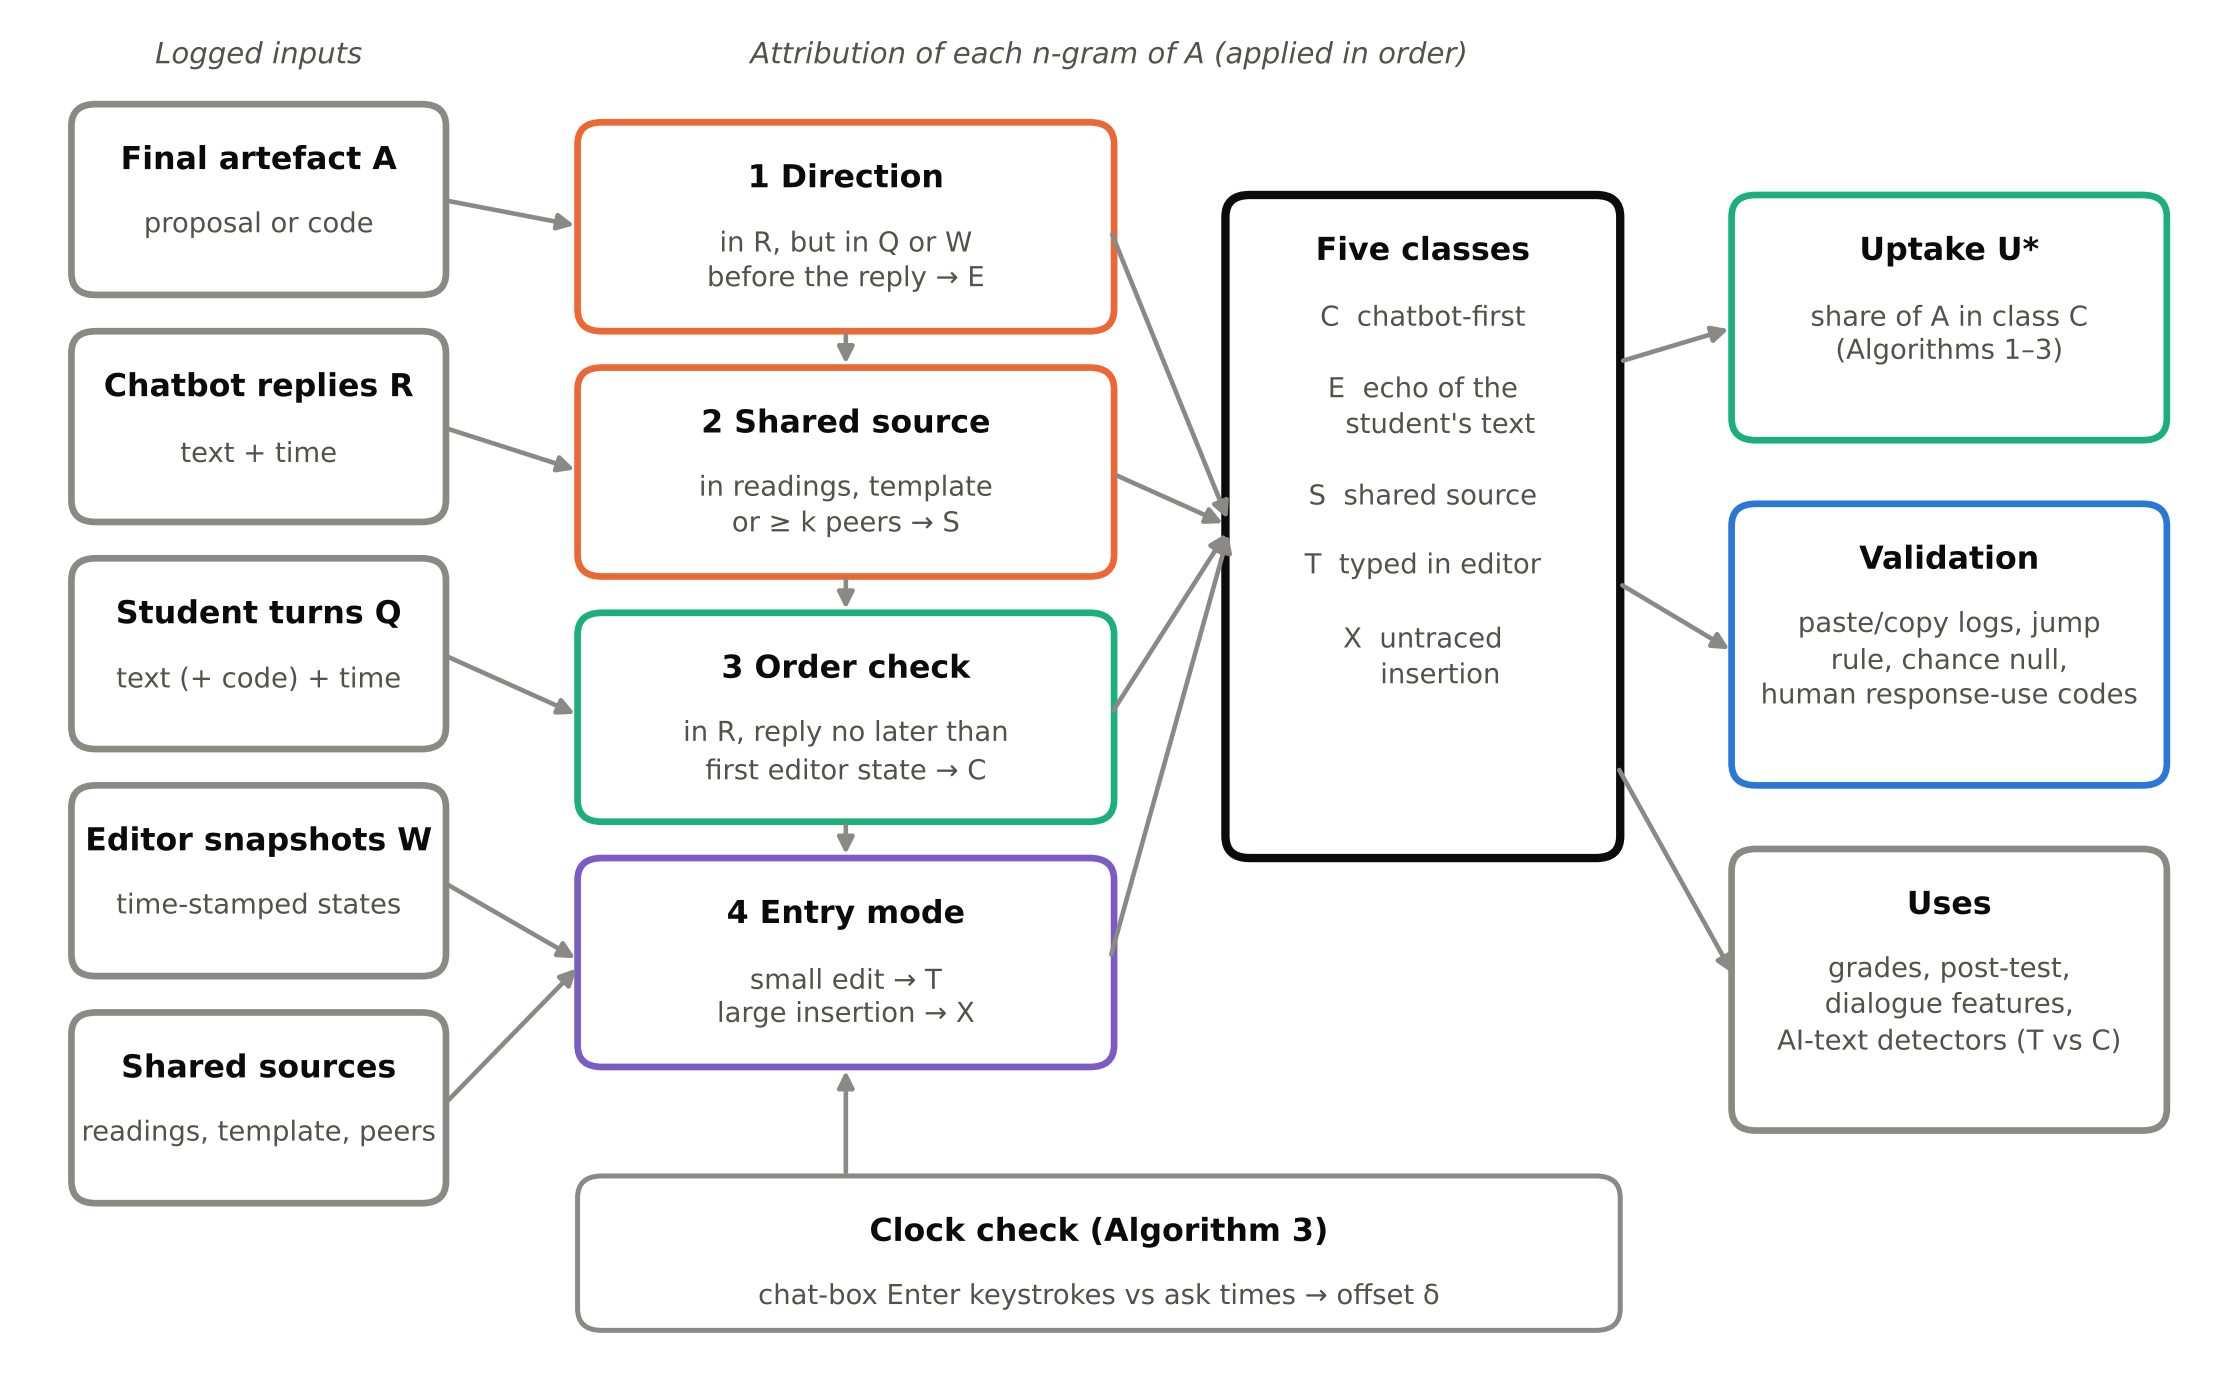
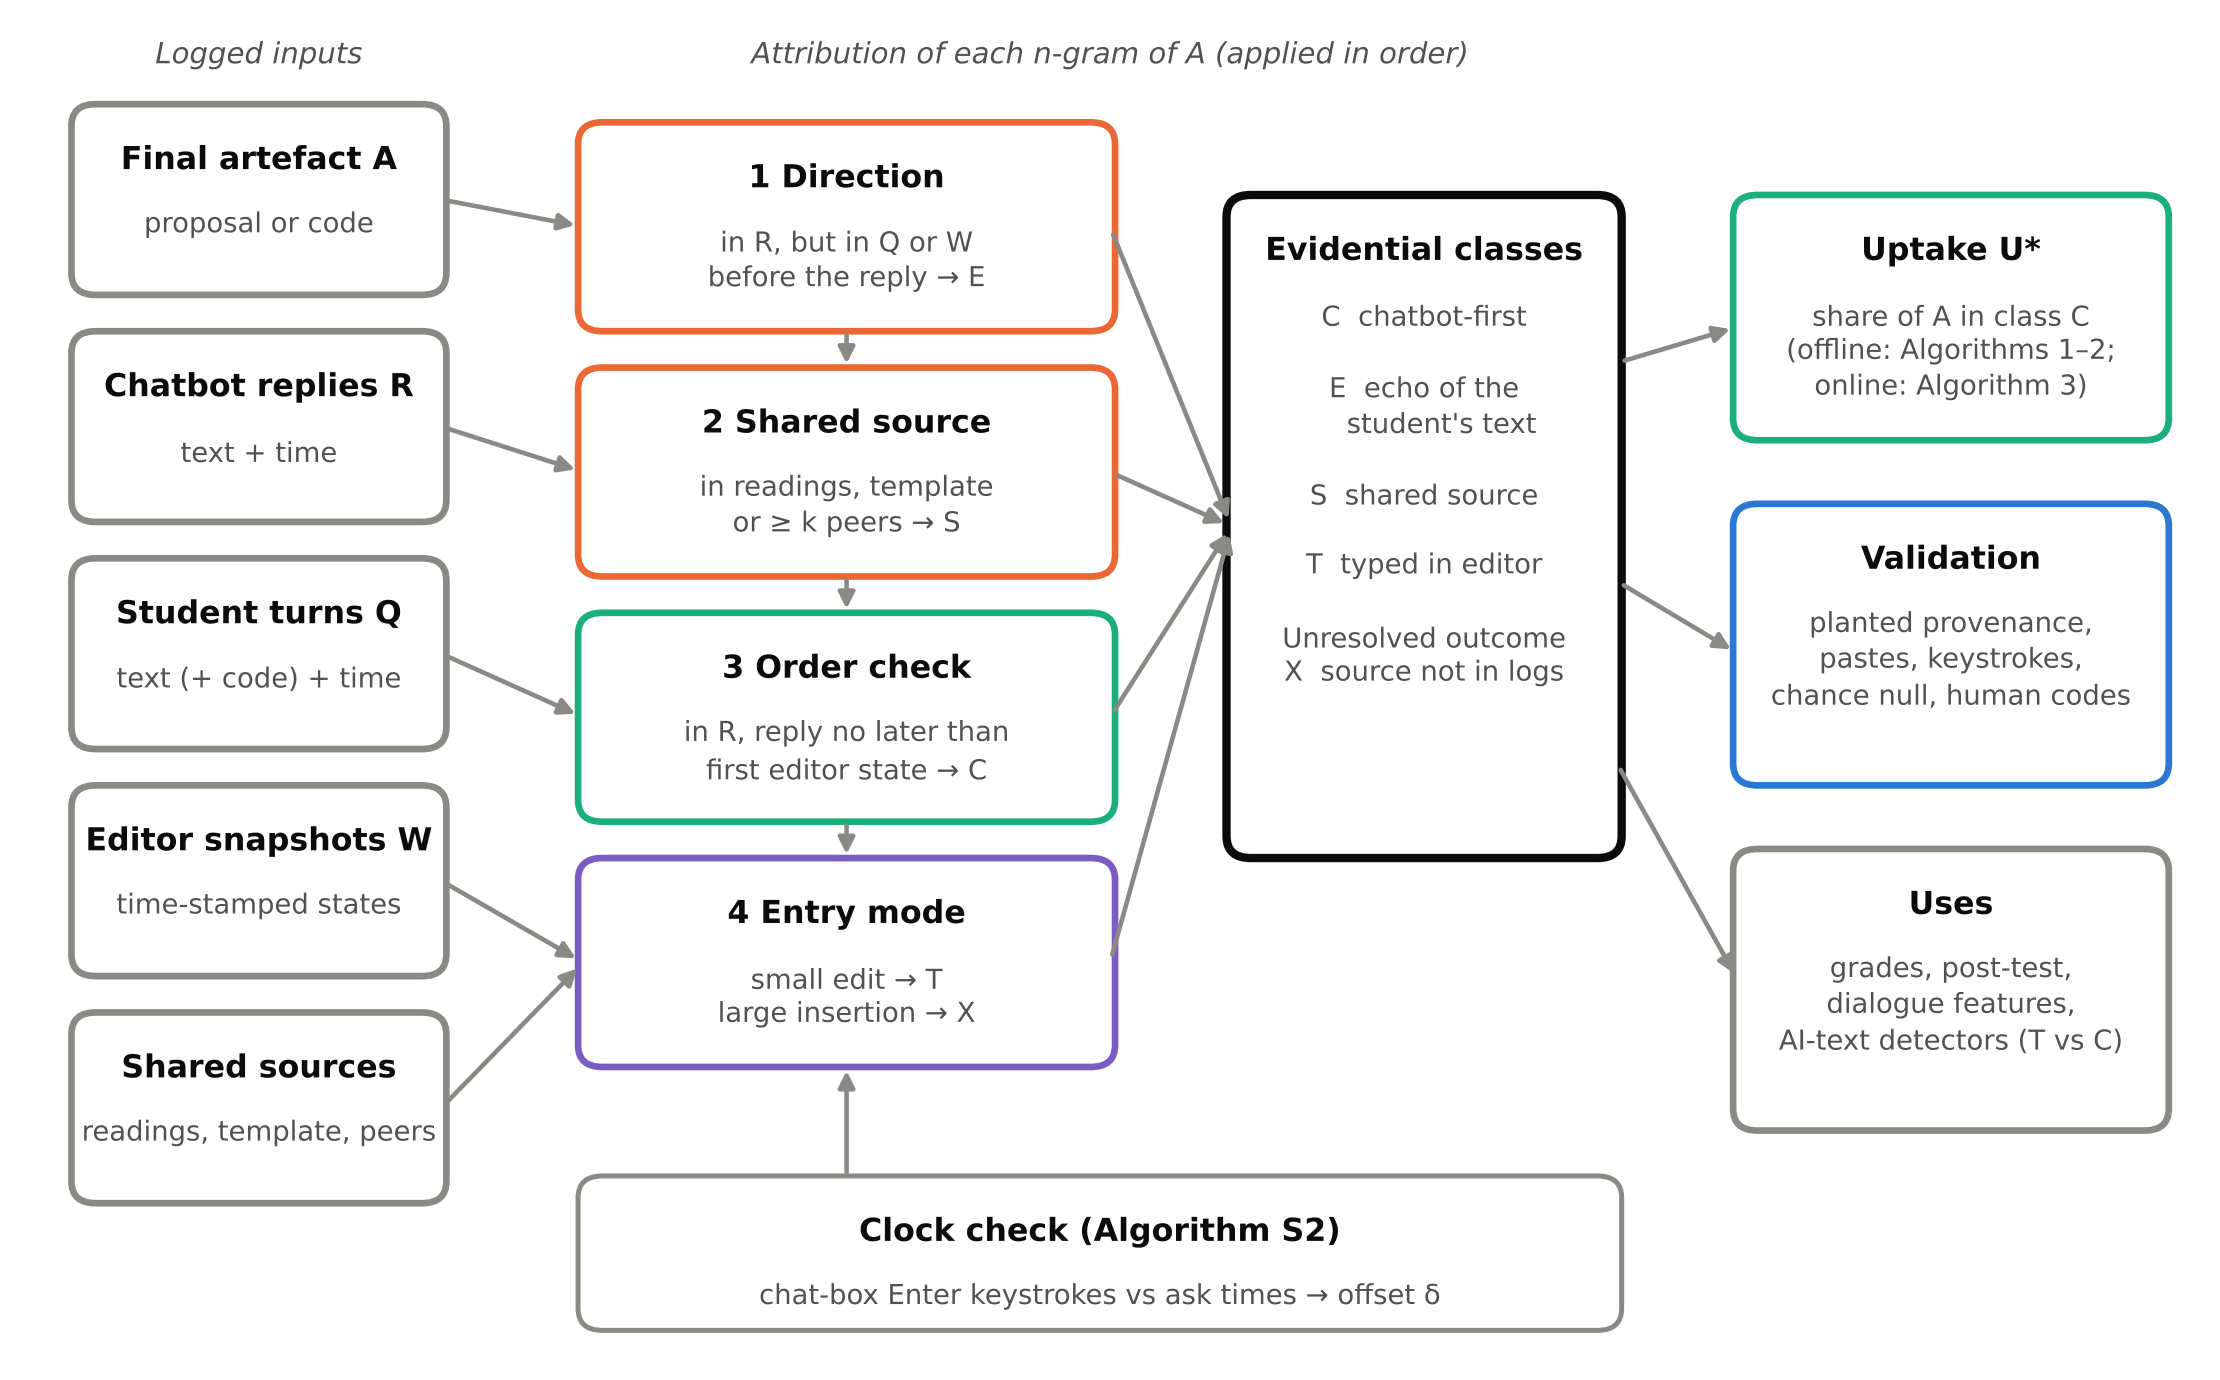
v1.10.0: figures relabelled (evidential classes, unresolved outcome); README and Zenodo metadata for the R10 addendum
Claude-Session: https://claude.ai/code/session_01VA5dnod4FxZK14UvvFjX9F

diff --git a/src/make_pipeline_fig.py b/src/make_pipeline_fig.py
@@ -1,4 +1,4 @@
-"""Pipeline diagram: five provenance classes (Fig. 1 of the manuscript)."""
+"""Pipeline diagram (Fig. 2 of the manuscript): four evidential classes and the unresolved outcome."""
 import matplotlib; matplotlib.use('Agg'); import matplotlib.pyplot as plt
 from matplotlib.patches import FancyBboxPatch
 ink, sub, blue, orange, aqua, grey, purple = '#0b0b0b', '#52514e', '#2a78d6', '#eb6834', '#1baf7a', '#8a8984', '#7b5cc4'
@@ -22,12 +22,12 @@ st = [('1 Direction', 'in R, but in Q or W\nbefore the reply → E', orange),
 for i, (t, b, c) in enumerate(st): box(25, 42 - i * 13.5, 26, 11, t, b, c)
 for i in range(3): arr(38, 42 - i * 13.5, 38, 42 - (i + 1) * 13.5 + 11)
 for i in range(5): arr(18, 49 - i * 12.5, 25, 47.5 - min(i, 3) * 13.5)
-box(57, 13, 19, 36, 'Five classes', 'C  chatbot-first\n\nE  echo of the\n    student\'s text\n\nS  shared source\n\nT  typed in editor\n\nX  untraced\n    insertion', ink, lw=2)
+box(57, 13, 19, 36, 'Evidential classes', 'C  chatbot-first\n\nE  echo of the\n    student\'s text\n\nS  shared source\n\nT  typed in editor\n\nUnresolved outcome\nX  source not in logs', ink, lw=2)
 for i in range(4): arr(51, 47.5 - i * 13.5, 57, 31)
-box(82, 36, 21, 13, 'Uptake U*', 'share of A in class C\n(Algorithms 1–3)', aqua)
-box(82, 17, 21, 15, 'Validation', 'paste/copy logs, jump\nrule, chance null,\nhuman response-use codes', blue)
+box(82, 36, 21, 13, 'Uptake U*', 'share of A in class C\n(offline: Algorithms 1–2;\nonline: Algorithm 3)', aqua)
+box(82, 17, 21, 15, 'Validation', 'planted provenance,\npastes, keystrokes,\nchance null, human codes', blue)
 box(82, -2, 21, 15, 'Uses', 'grades, post-test,\ndialogue features,\nAI-text detectors (T vs C)', grey)
 arr(76, 40, 82, 42); arr(76, 28, 82, 24); arr(76, 18, 82, 6)
-box(25, -13, 51, 8, 'Clock check (Algorithm 3)', 'chat-box Enter keystrokes vs ask times → offset δ', grey, lw=1.2)
+box(25, -13, 51, 8, 'Clock check (Algorithm S2)', 'chat-box Enter keystrokes vs ask times → offset δ', grey, lw=1.2)
 arr(38, -5, 38, 1.5)
 fig.tight_layout(); fig.savefig('results/fig0_pipeline.png', dpi=300); print('ok')

diff --git a/src/make_flow_fig.py b/src/make_flow_fig.py
@@ -21,5 +21,5 @@ arrow(21, y + 3.5, 82, y + 3.5, col['C']); ax.text(51, y + 4.8, 'C  in a reply b
 y = rows['Shared sources\n(readings, template)']
 arrow(21, y + 3.5, 82, y + 3.5, col['S']); ax.text(51, y + 4.8, 'S  text available to all students', color=col['S'], ha='center', fontsize=7.5, fontweight='bold')
 y = rows['Sources not\nin the logs']
-arrow(21, y + 3.5, 82, y + 3.5, col['X']); ax.text(51, y + 4.8, 'X  large insertion; source not recorded (missing provenance)', color=col['X'], ha='center', fontsize=7.5, fontweight='bold')
+arrow(21, y + 3.5, 82, y + 3.5, col['X']); ax.text(51, y + 4.8, 'X  large insertion; source not recorded (unresolved)', color=col['X'], ha='center', fontsize=7.5, fontweight='bold')
 fig.tight_layout(); fig.savefig('results/fig_flow.png', dpi=300); print('ok')

diff --git a/src/make_fig_classes_r7.py b/src/make_fig_classes_r7.py
@@ -4,7 +4,7 @@ import numpy as np, pandas as pd
 import json, matplotlib; matplotlib.use('Agg'); import matplotlib.pyplot as plt
 ink, sub, grid = '#0b0b0b', '#52514e', '#e4e3df'
 col = {'C': '#1baf7a', 'E': '#eb6834', 'S': '#8a8984', 'T': '#2a78d6', 'X': '#7b5cc4'}
-name = {'C': 'C chatbot-first', 'E': 'E echo', 'S': 'S shared source', 'T': 'T typed', 'X': 'X untraced insertion'}
+name = {'C': 'C chatbot-first', 'E': 'E echo', 'S': 'S shared source', 'T': 'T typed', 'X': 'X unresolved'}
 f = {k: v['mean'] for k, v in json.load(open('results/r4_flora_stats.json'))['classes_edit'].items()}; 
 rs = {k: v['mean'] for k, v in json.load(open('results/r4_rs_stats.json'))['classes_edit'].items()}
 r7 = json.load(open('results/r7_rs.json'))['codes']

diff --git a/README.md b/README.md
@@ -112,6 +112,8 @@ No measure, class definition or parameter value changed.
 - Study data (`src/r10_baselines.py`, `src/r10_rs.py`): in FLoRA, winnowing and string tiling mark a median of 16.0% and 20.6% of the proposal (U* 4.8%); 32.4% and 36.0% of students at or above half (U* 20.0%); 37% to 38% of the marked tokens are echo. In RelianceScope, segment agreement with "copy the response": segment uptake AUC 0.762 [0.724, 0.805], string tiling 0.693 [0.646, 0.740], winnowing 0.674 [0.627, 0.723]; chance level 8-9% of the final code.
 - Online version (`demo/provenance_online.py`, `src/r10_online.py`): labels agree with the primary offline labels on 99.3% of FLoRA tokens (kappa 0.99; U* Spearman 0.998) and on all RelianceScope tokens; 1.9% of n-gram labels change after entry (editor-first echo). Latency per snapshot: median 0.06 ms, 99th percentile 0.23 ms, maximum 9 ms (FLoRA, one CPU core); peak memory per student median 3.2 MB (max 13 MB) online and 1.1 MB offline; 40 s online and 33 s offline for the 275 FLoRA students and 496,733 snapshots.
 - RelianceScope (`src/r10_rs.py`): labelling the snapshot at the end of each segment instead of the final code leaves "write over the response" at AUC 0.55 (copy 0.78). Parameter table: chance-corrected mean uptake 13.2% (primary), 10.7% (n = 5), 11.4% (n = 12), 9.9% (E before C), 2.1% (majority), 8.5% (code lexer), 1.8% (identifiers normalised); tau has no effect on C; post-test slope per SD between -0.31 and -0.41, all intervals but E-before-C include zero. Label-noise ceiling for the copy code: 0.97, 0.94, 0.92, 0.89, 0.87, 0.85, 0.82, 0.80, 0.78, 0.76 at q = 0.02 to 0.20.
+- Rule conflicts (`src/r10_rule_conflicts.py`): 23 of 16,461 prompt-first FLoRA 8-grams (0.14%) and 4 of 21 in RelianceScope also occur in a shared source; no n-gram is both shared and in the editor before its first reply.
+- Figures 1, 2 and 4 relabelled: four evidential classes (C, E, S, T) and the unresolved outcome X (formerly "untraced").
 - FLoRA paste checks with student-level intervals (`src/r10_flora_checks.py`, 68 students): C tokens covered by logged pastes 97.4% [94.6, 99.3]; X 94.1% [85.7, 99.3]; T 56.2% [40.2, 77.1]. Editor snapshots per 100 final tokens, interval between snapshots and share of large insertions do not differ between students with and without logged pastes (p > 0.13). Asks whose nearest Enter keystroke lay near 1, 10 or 11 h (6 asks, 4 students) all had another chat-box keystroke within 30 s.
 
 ## Demo without the study data
